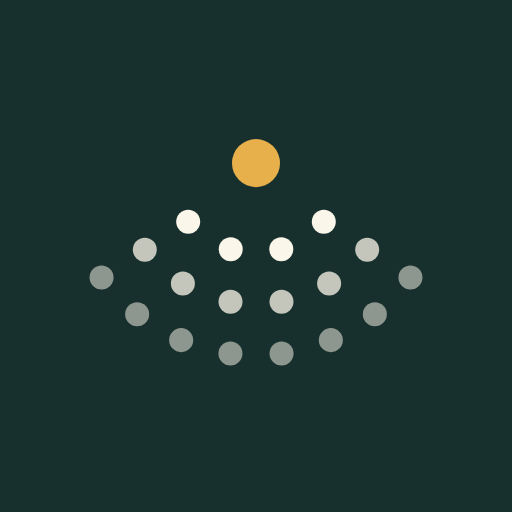
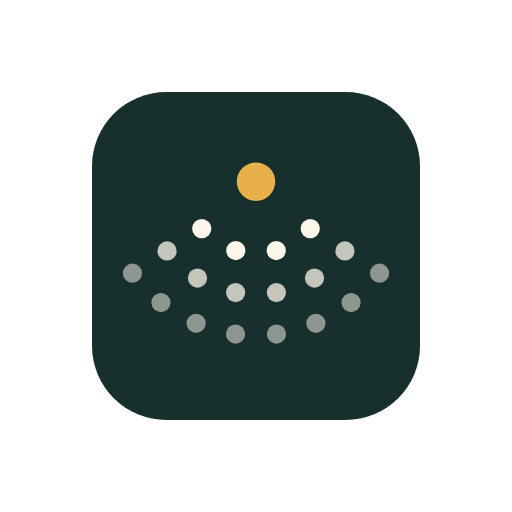
Startbildschirm: die Kachel wieder rund
„Wenn man die App startet und das Logo kurz groß im Bild ist, dann sollten
die Ecken dort auch abgerundet sein." Android zeigt beim Start der
installierten App das maskable-Icon groß auf background_color. Seit db2a7bd
war es vollflächig in der Kachelfarbe – dort erschien ein Quadrat mit
spitzen Ecken.

Jetzt wieder die runde Kachel auf Weiß (= background_color), ganz in der
Safe-Zone (64 %: die Ecken reichen bis 0,613 der Kachelbreite vom
Mittelpunkt, Android garantiert 0,4). Das iOS-Icon bleibt vollflächig, iOS
rundet selbst. make-icons führt den Hintergrund je Ziel als transparent,
weiss oder kachel; die drei übrigen Icons kamen Byte für Byte gleich heraus.

diff --git a/docs/analyse/todo.md b/docs/analyse/todo.md
@@ -6162,10 +6162,14 @@ samt Konten wieder entfernt; für den nächsten Lauf legt
   drei Sitzreihen mit 4, 6 und 8 Plätzen um ein goldenes Rednerpult, von oben,
   auf dunkler Petrol-Kachel (`#17302D`) — mit Mittelgang, weil jede Reihe eine
   gerade Zahl hat. Flach statt Verläufe und Schatten, trägt als 16-px-Favicon.
-  `public/logo.svg` neu, die PNGs per `npm run icons`; die deckenden Icons
-  (maskable, iOS) haben jetzt die Kachelfarbe als Hintergrund statt Weiß, das
-  maskable-Motiv füllt 80 % (vorher 64 %, damals musste die helle Kachel in
-  die Safe-Zone). Handbuch-Bilder neu aufgenommen.
+  `public/logo.svg` neu, die PNGs per `npm run icons`; das iOS-Icon hat die
+  Kachelfarbe als Fläche (iOS rundet die Ecken selbst). Handbuch-Bilder neu
+  aufgenommen. **Nachtrag:** Das maskable-Icon stand zuerst ebenfalls
+  vollflächig in Kachelfarbe — Android zeigt es aber groß auf dem
+  Startbildschirm der installierten App, und dort erschien ein Quadrat mit
+  spitzen Ecken („die Ecken sollten dort auch abgerundet sein"). Jetzt wieder
+  die runde Kachel auf Weiß (= `background_color`), ganz in der Safe-Zone
+  (64 %).
 
 **Ausrollen in dieser Reihenfolge:** Functions `send-plan`, `send-reminders`,
 `substitute` deployen → `schema.sql` einspielen → Push. Das neue Frontend

diff --git a/README.md b/README.md
@@ -137,9 +137,11 @@ npm run icons    # scripts/make-icons.mjs, rendert mit Chrome (headless)
 Das Zeichen (seit dem 4.10.2026): drei Sitzreihen mit 4, 6 und 8 Plätzen um ein
 goldenes Rednerpult, von oben gesehen, auf einer dunklen Petrol-Kachel — flach,
 damit es auch als 16-px-Favicon trägt. Die Polsterung je Ziel steht als `share`
-in `scripts/make-icons.mjs`; die deckenden Icons (maskable, iOS) bekommen die
-Kachelfarbe als Hintergrund, die das Skript aus `logo.svg` liest. Gerendert wird
-mit Chrome, demselben Renderer wie in der App.
+in `scripts/make-icons.mjs`. Das maskable-Icon liegt auf Weiß wie der
+Startbildschirm der installierten App (`background_color`), denn Android zeigt
+es dort groß — vollflächig hätte es spitze Ecken; das iOS-Icon bekommt die
+Kachelfarbe als Fläche, die das Skript aus `logo.svg` liest (iOS rundet selbst).
+Gerendert wird mit Chrome, demselben Renderer wie in der App.
 
 ## Projektstruktur
 
